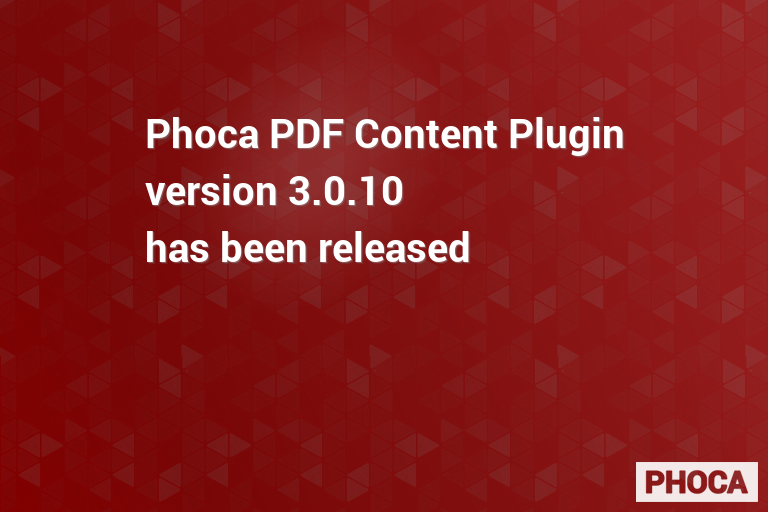
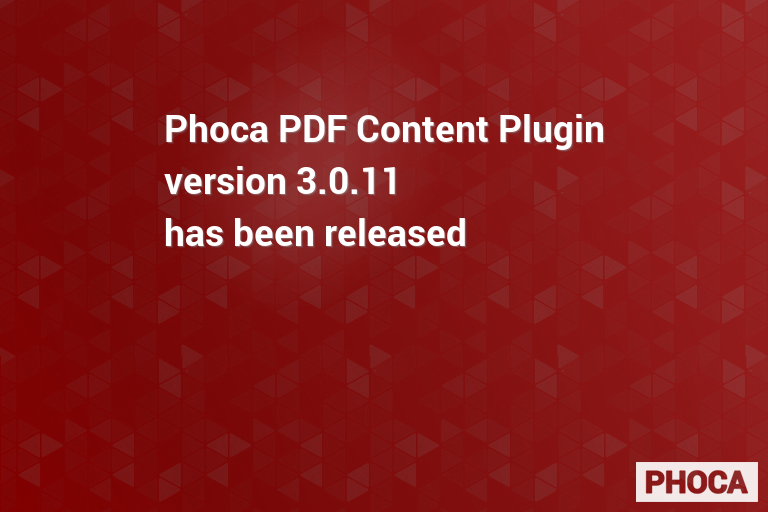
3.0.11
3.0.11

Changed region(s): [[0.1875, 0.2188, 0.8125, 0.4062], [0.1875, 0.4062, 0.625, 0.5312]]

diff --git a/content.php b/content.php
@@ -12,7 +12,11 @@ defined( '_JEXEC' ) or die( 'Restricted access' );
 jimport( 'joomla.html.parameter' );
 class plgPhocaPDFContent extends JPlugin
 {
+	
 	function onBeforeCreatePDFContent(&$content) {
+		
+		
+		
 		
 		$content->content = '';
 		// load plugin params info
@@ -52,6 +56,7 @@ class plgPhocaPDFContent extends JPlugin
 		$content->use_cache			= $pluginP->get('use_cache', 0);
 		
 		
+		
 		//Extra values
 		if ((int)$content->site_cell_height > 3) {
 			$content->site_cell_height = 3;
@@ -84,12 +89,49 @@ class plgPhocaPDFContent extends JPlugin
 			$content->image_scale = 0.5;
 		}
 		
+		return true;
+	}
+	
+	function onBeforeRenderOutputContent(&$item) {
 		
+		$plugin  = JPluginHelper::getPlugin('phocapdf', 'content');		
+		$pluginP = new JRegistry(); 
+		$pluginP->loadString($plugin->params);
+		
+		$display_image_intro			= $pluginP->get('display_image_intro', 0);
+		$display_image_fulltext			= $pluginP->get('display_image_fulltext', 1);
+		$image_fulltext_intro_width		= $pluginP->get('image_fulltext_intro_width', '');
+	
+		$outputBefore = '';
+		if ($display_image_intro == 1 || $display_image_fulltext == 1) {
+			if (!empty($item->images)) {
+				$images = json_decode($item->images, true);
+				
+				$widthCSS = '';
+				if ((int)$image_fulltext_intro_width > 0) {
+					$widthCSS = 'width: '.(int)$image_fulltext_intro_width . 'mm';
+				}
+				
+				if ($display_image_intro == 1 && isset($images['image_intro']) && $images['image_intro'] != '') {
+					$outputBefore .= '<div style="text-align:center"><img style="'.$widthCSS.'" src="'. Juri::root() . '' .$images['image_intro'].'" /></div>';
+				}
+				if ($display_image_fulltext == 1 && isset($images['image_fulltext']) && $images['image_fulltext'] != '') {
+					$outputBefore .= '<div style="text-align:center"><img style="'.$widthCSS.'" src="'. Juri::root() . '' .$images['image_fulltext'].'" /></div>';
+				}
+				
+			
+			}
+		}
+		
+		$item->text = $outputBefore . $item->text;
+		$item->article_text = $outputBefore . $item->article_text;
 		return true;
 	}
 	
 	
 	function onBeforeDisplayPDFContent(&$pdf, &$content, &$document) {
+		
+		
 		
 		if (isset($document->_article_title) && $document->_article_title != '') {
 			$pdf->SetTitle($document->_article_title);
@@ -98,6 +140,8 @@ class plgPhocaPDFContent extends JPlugin
 			$pdf->SetTitle($document->getTitle());
 			
 		}
+	
+	
 	
 
 		$pdf->SetSubject($document->getDescription());

diff --git a/README.MD b/README.MD
@@ -2,7 +2,7 @@
 
 
 
-![Phoca PDF Content Plugin](https://github.com/PhocaCz/PhocaPDFContentPlugin/blob/master/content.png)
+![Phoca PDF Content Plugin](https://github.com/PhocaCz/PhocaPDFContentPlugin/blob/master/content.png?raw=true)
 
 # Phoca PDF Content Plugin
 
@@ -58,7 +58,7 @@ Phoca PDF Content plugin is Joomla! plugin which enables option to render PDF do
 
 ## Version
 
-3.0.10
+3.0.11
 
 
 
